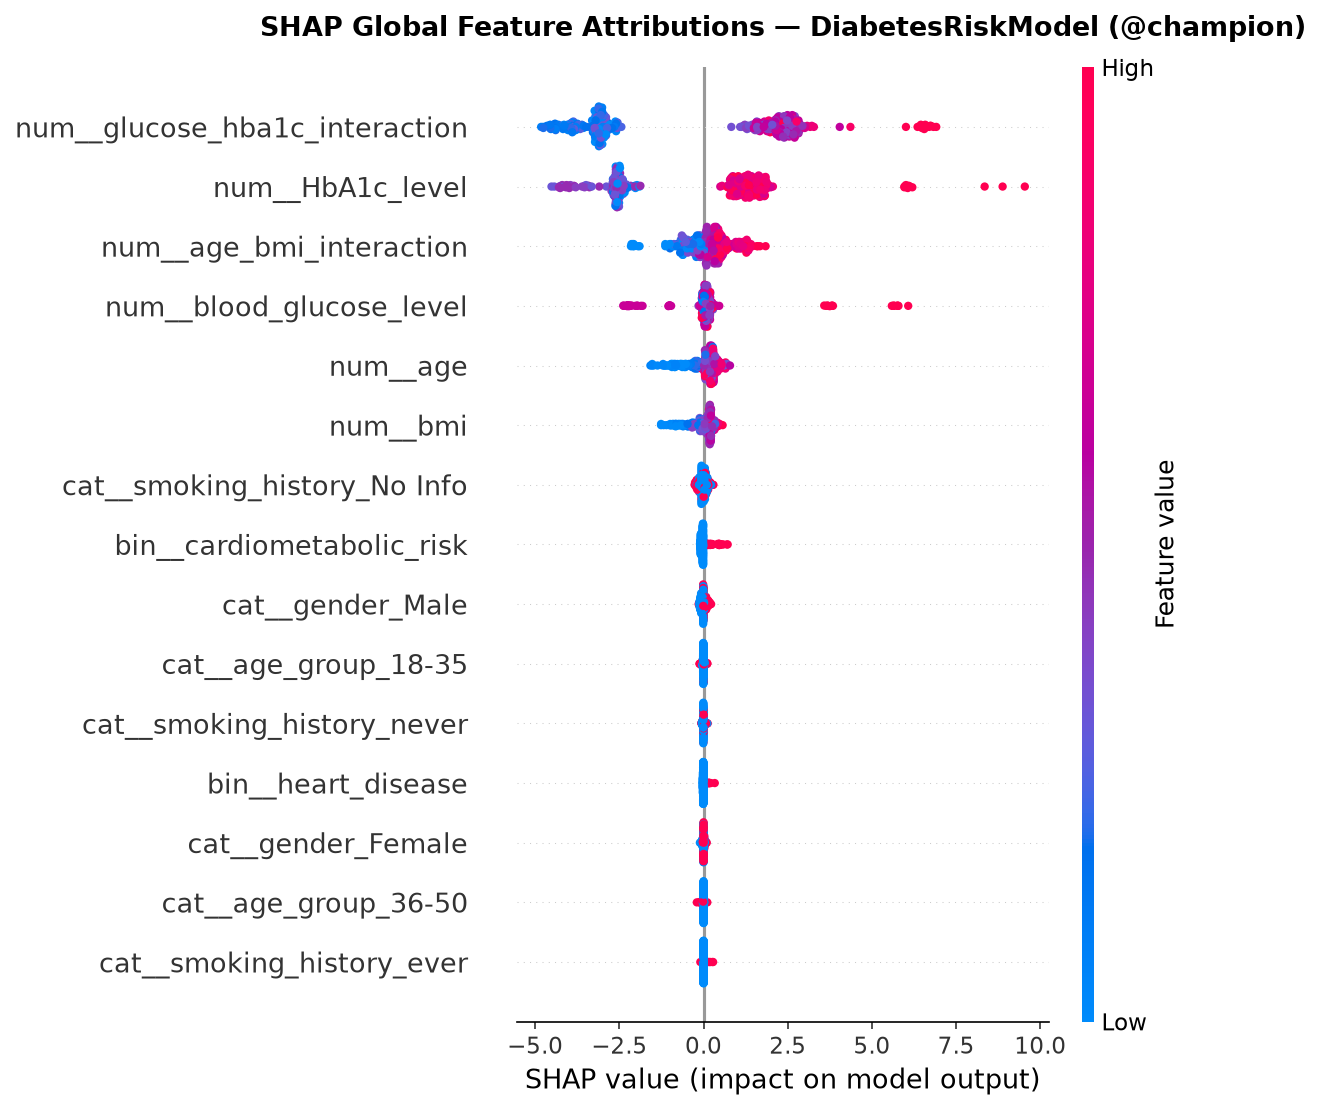
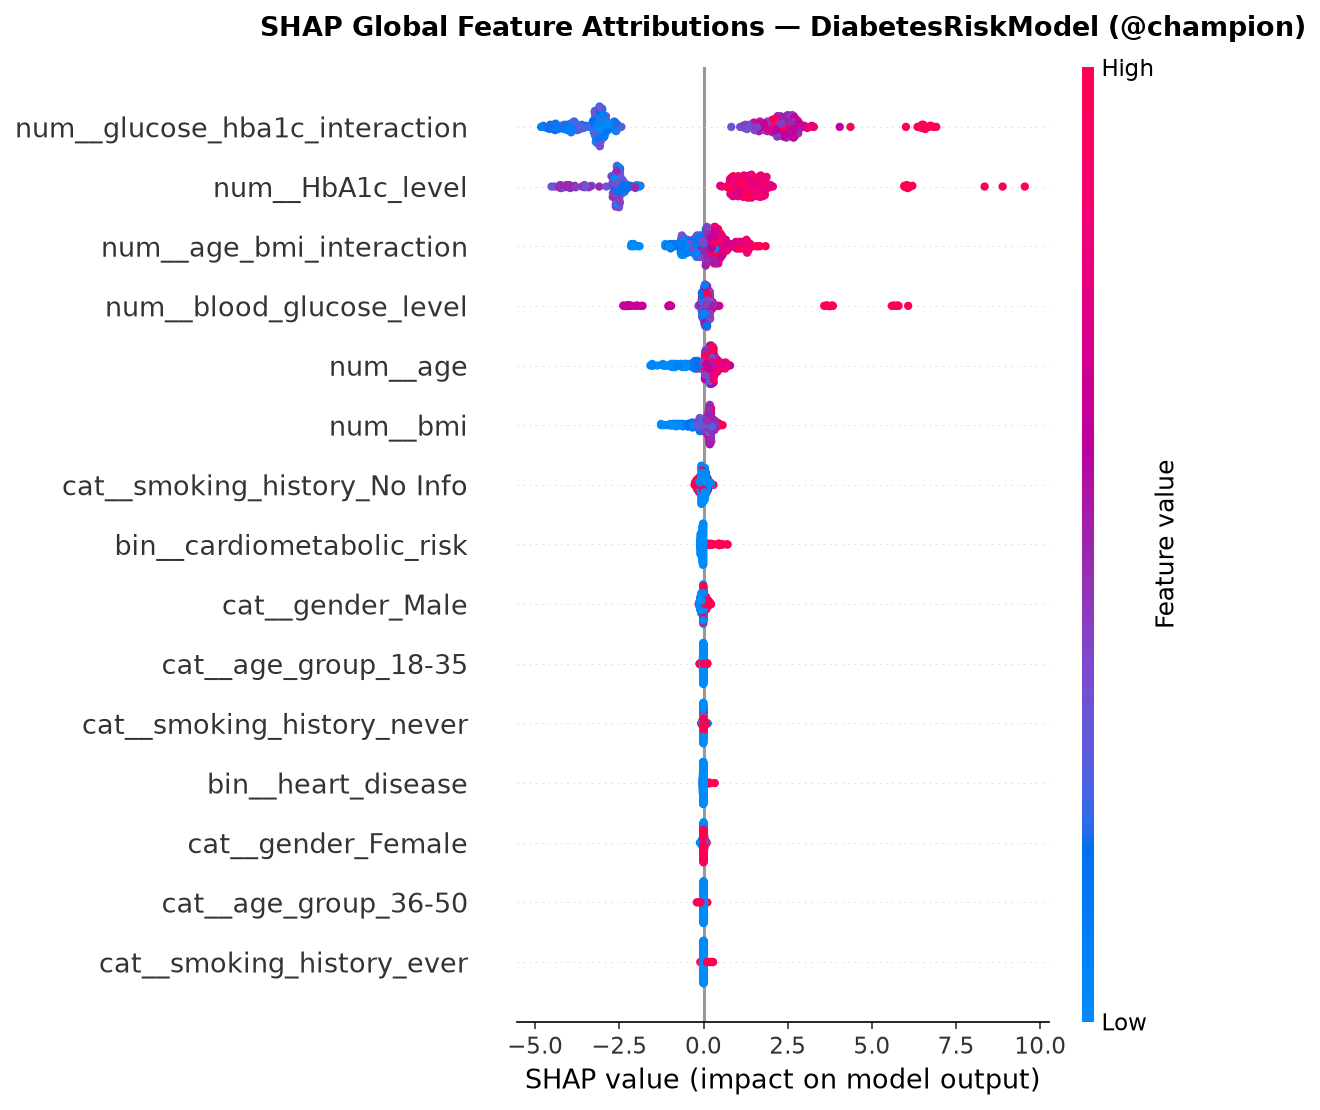
feat: configure GitHub Actions CI workflow for testing and Docker builds (Phase 13)

diff --git a/tests/test_ci_cd_contract.py b/tests/test_ci_cd_contract.py
@@ -1,0 +1,119 @@
+"""CI/CD workflow contract test suite.
+
+Validates that all GitHub Actions workflow configurations are syntactically valid YAML,
+contain required jobs, enforce trigger matrices, declare correct step dependencies,
+and reference valid application entrypoints.
+"""
+
+from pathlib import Path
+import pytest
+import yaml
+
+CI_WORKFLOW_PATH = Path(".github/workflows/ci.yml")
+CD_WORKFLOW_PATH = Path(".github/workflows/cd.yml")
+
+
+@pytest.fixture(scope="module")
+def ci_workflow() -> dict:
+    """Load and parse the CI workflow definition."""
+    assert CI_WORKFLOW_PATH.exists(), f"Missing workflow file: {CI_WORKFLOW_PATH}"
+    content = CI_WORKFLOW_PATH.read_text(encoding="utf-8")
+    assert len(content.strip()) > 0, "CI workflow file is empty"
+    data = yaml.safe_load(content)
+    assert isinstance(data, dict), "CI workflow YAML did not parse to a dictionary"
+    return data
+
+
+@pytest.fixture(scope="module")
+def cd_workflow() -> dict:
+    """Load and parse the CD workflow definition."""
+    assert CD_WORKFLOW_PATH.exists(), f"Missing workflow file: {CD_WORKFLOW_PATH}"
+    content = CD_WORKFLOW_PATH.read_text(encoding="utf-8")
+    assert len(content.strip()) > 0, "CD workflow file is empty"
+    data = yaml.safe_load(content)
+    assert isinstance(data, dict), "CD workflow YAML did not parse to a dictionary"
+    return data
+
+
+def test_ci_workflow_exists_and_valid_yaml(ci_workflow: dict):
+    """Test that .github/workflows/ci.yml exists, is non-empty, and parses as valid YAML."""
+    assert "name" in ci_workflow
+    assert "jobs" in ci_workflow
+    assert "on" in ci_workflow or True  # PyYAML might load 'on' as True (boolean)
+
+
+def test_ci_workflow_declared_jobs(ci_workflow: dict):
+    """Test that all required jobs are declared in the CI workflow."""
+    jobs = ci_workflow.get("jobs", {})
+    expected_jobs = [
+        "code-quality-and-tests",
+        "docker-build-verification",
+        "frontend-check",
+    ]
+    for job_name in expected_jobs:
+        assert job_name in jobs, f"Job '{job_name}' missing from CI workflow jobs"
+
+
+def test_ci_workflow_trigger_matrix(ci_workflow: dict):
+    """Verify that CI is triggered on push and pull_request to main and develop."""
+    # Handle both 'on' and True due to YAML boolean parsing
+    triggers = ci_workflow.get("on") if "on" in ci_workflow else ci_workflow.get(True)
+    assert triggers is not None, "Workflow trigger configuration 'on' not found"
+
+    assert "push" in triggers, "Trigger 'push' missing from CI workflow"
+    assert "pull_request" in triggers, "Trigger 'pull_request' missing from CI workflow"
+
+    push_branches = triggers["push"].get("branches", [])
+    pr_branches = triggers["pull_request"].get("branches", [])
+
+    assert "main" in push_branches, "Push triggers must include 'main'"
+    assert "develop" in push_branches, "Push triggers must include 'develop'"
+    assert "main" in pr_branches, "PR triggers must include 'main'"
+    assert "develop" in pr_branches, "PR triggers must include 'develop'"
+
+
+def test_ci_workflow_job_dependencies(ci_workflow: dict):
+    """Assert that docker-build-verification depends on code-quality-and-tests."""
+    jobs = ci_workflow.get("jobs", {})
+    docker_job = jobs.get("docker-build-verification", {})
+    needs = docker_job.get("needs", [])
+    if isinstance(needs, str):
+        needs = [needs]
+    assert "code-quality-and-tests" in needs, (
+        "Job 'docker-build-verification' must depend on 'code-quality-and-tests'"
+    )
+
+
+def test_ci_workflow_steps_contract(ci_workflow: dict):
+    """Assert that code-quality-and-tests and docker-build-verification include required commands."""
+    jobs = ci_workflow.get("jobs", {})
+    
+    # 1. code-quality-and-tests steps
+    code_job = jobs.get("code-quality-and-tests", {})
+    code_steps = code_job.get("steps", [])
+    code_commands = " ".join(step.get("run", "") for step in code_steps)
+    
+    assert "uv sync --frozen" in code_commands, "Missing 'uv sync --frozen' step"
+    assert "ruff check" in code_commands, "Missing Ruff linting step"
+    assert "pytest" in code_commands, "Missing Pytest execution step"
+    assert "src.evaluation.quality_gate" in code_commands, (
+        "Missing autonomous quality gate audit step"
+    )
+
+    # 2. docker-build-verification steps
+    docker_job = jobs.get("docker-build-verification", {})
+    docker_steps = docker_job.get("steps", [])
+    docker_commands = " ".join(step.get("run", "") for step in docker_steps)
+
+    assert "docker build" in docker_commands, "Missing Docker build command"
+    assert "Dockerfile" in docker_commands, "Missing reference to root Dockerfile"
+    assert "frontend/Dockerfile" in docker_commands, "Missing reference to frontend Dockerfile"
+    assert "/health" in docker_commands, "Missing health check test for container"
+
+
+def test_cd_workflow_exists_and_valid_yaml(cd_workflow: dict):
+    """Test that .github/workflows/cd.yml exists, is non-empty, and parses as valid YAML."""
+    assert "name" in cd_workflow
+    assert "jobs" in cd_workflow
+    jobs = cd_workflow.get("jobs", {})
+    assert "staging-release" in jobs, "Job 'staging-release' missing from CD workflow"
